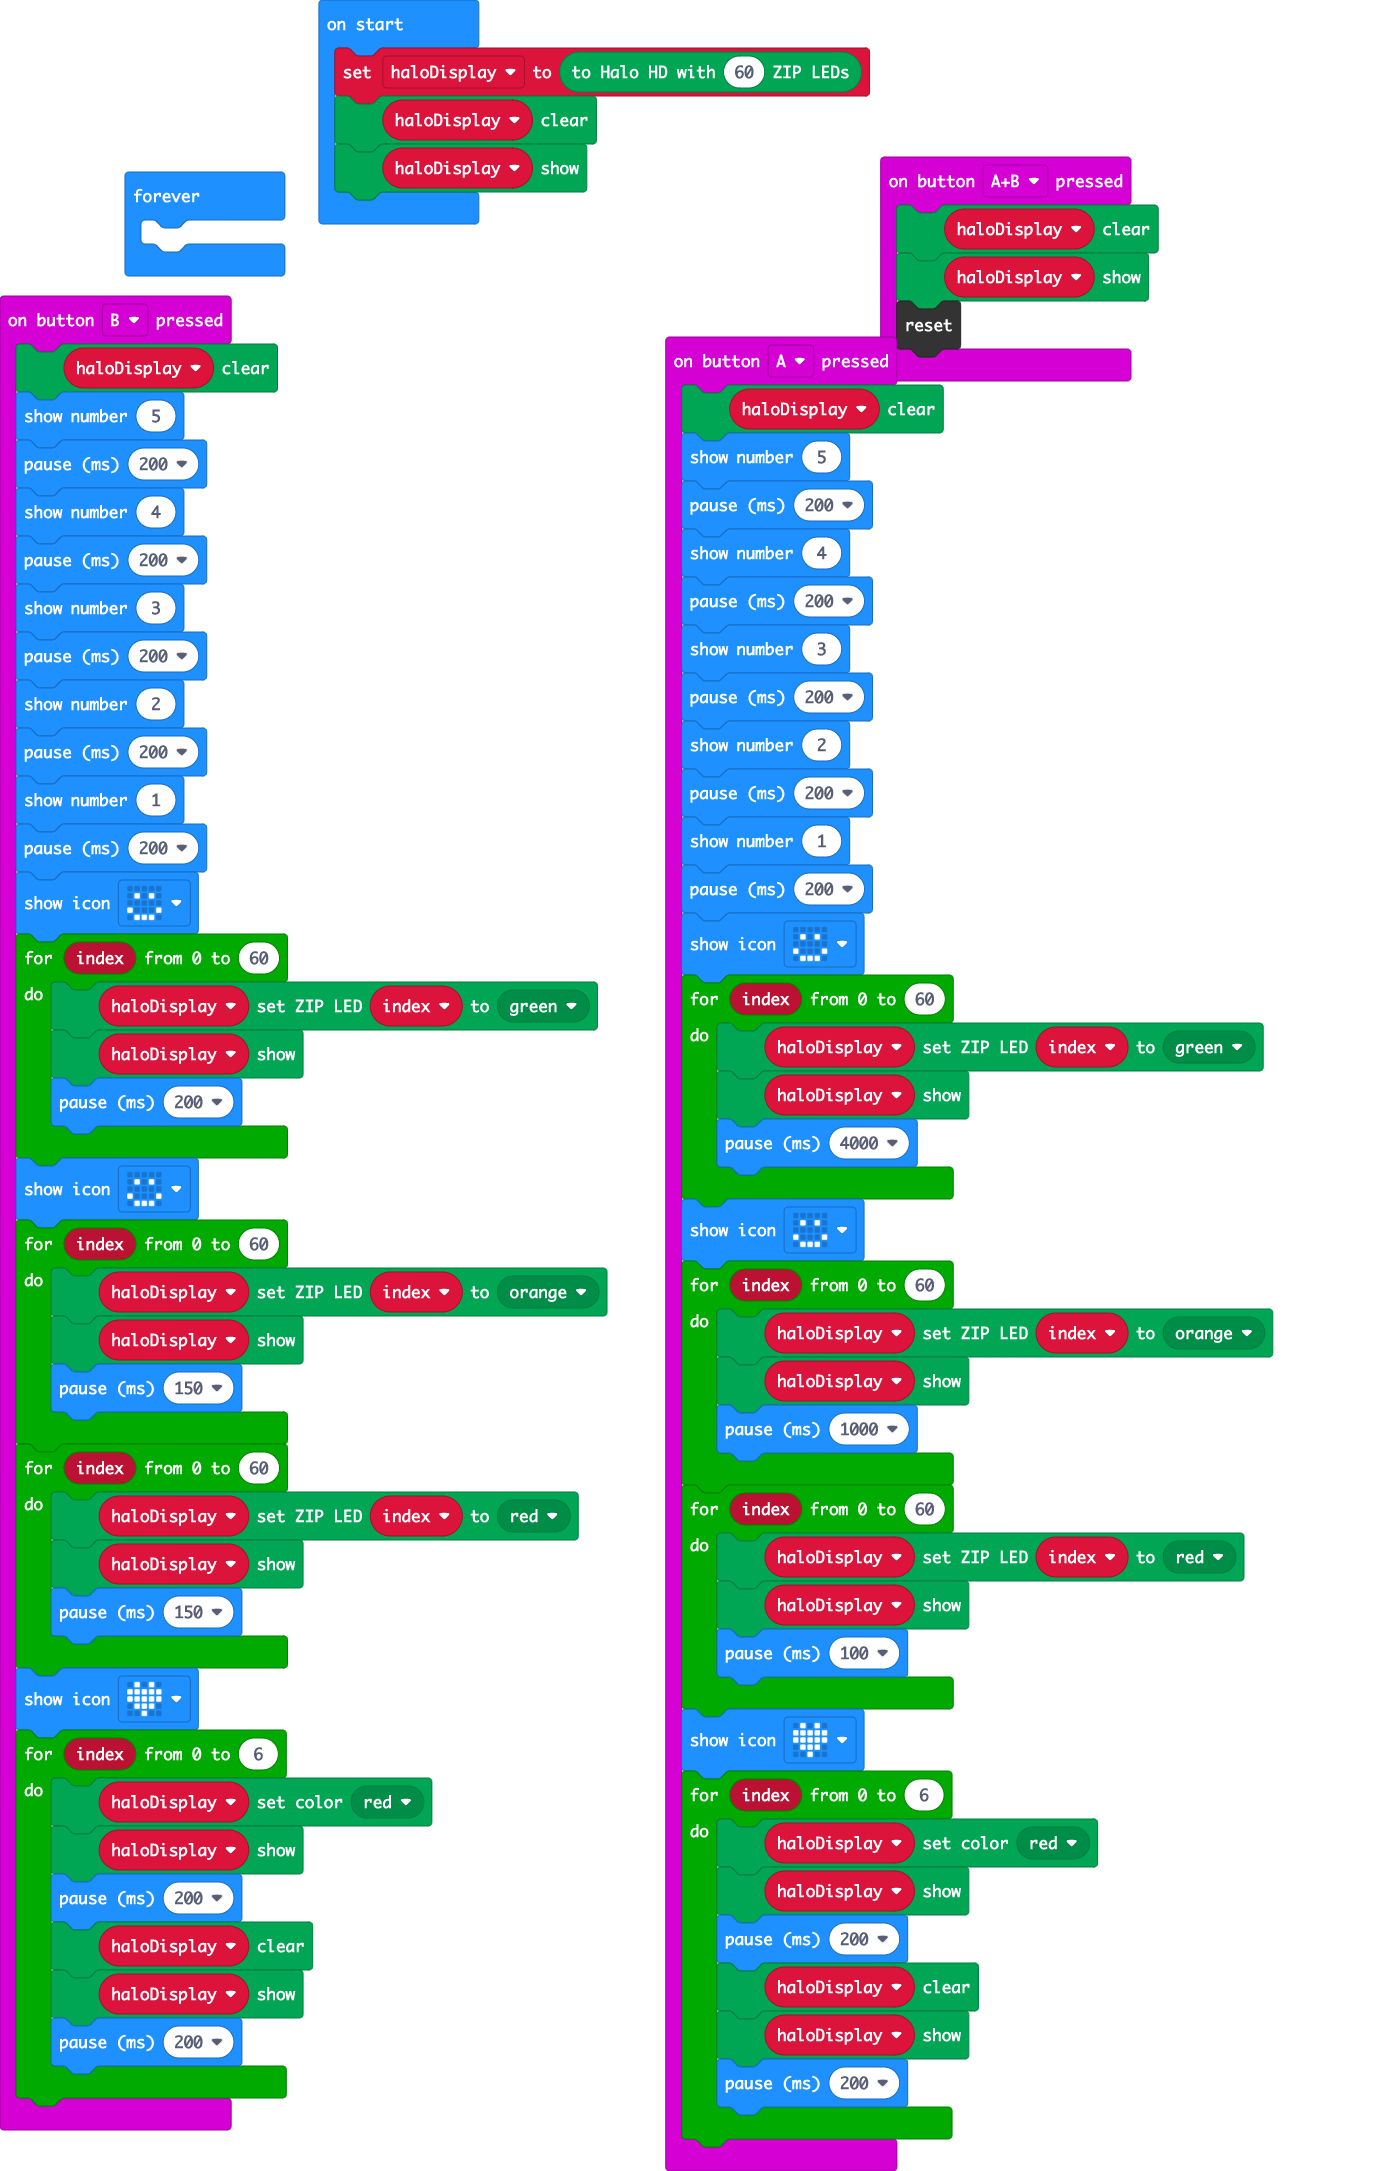
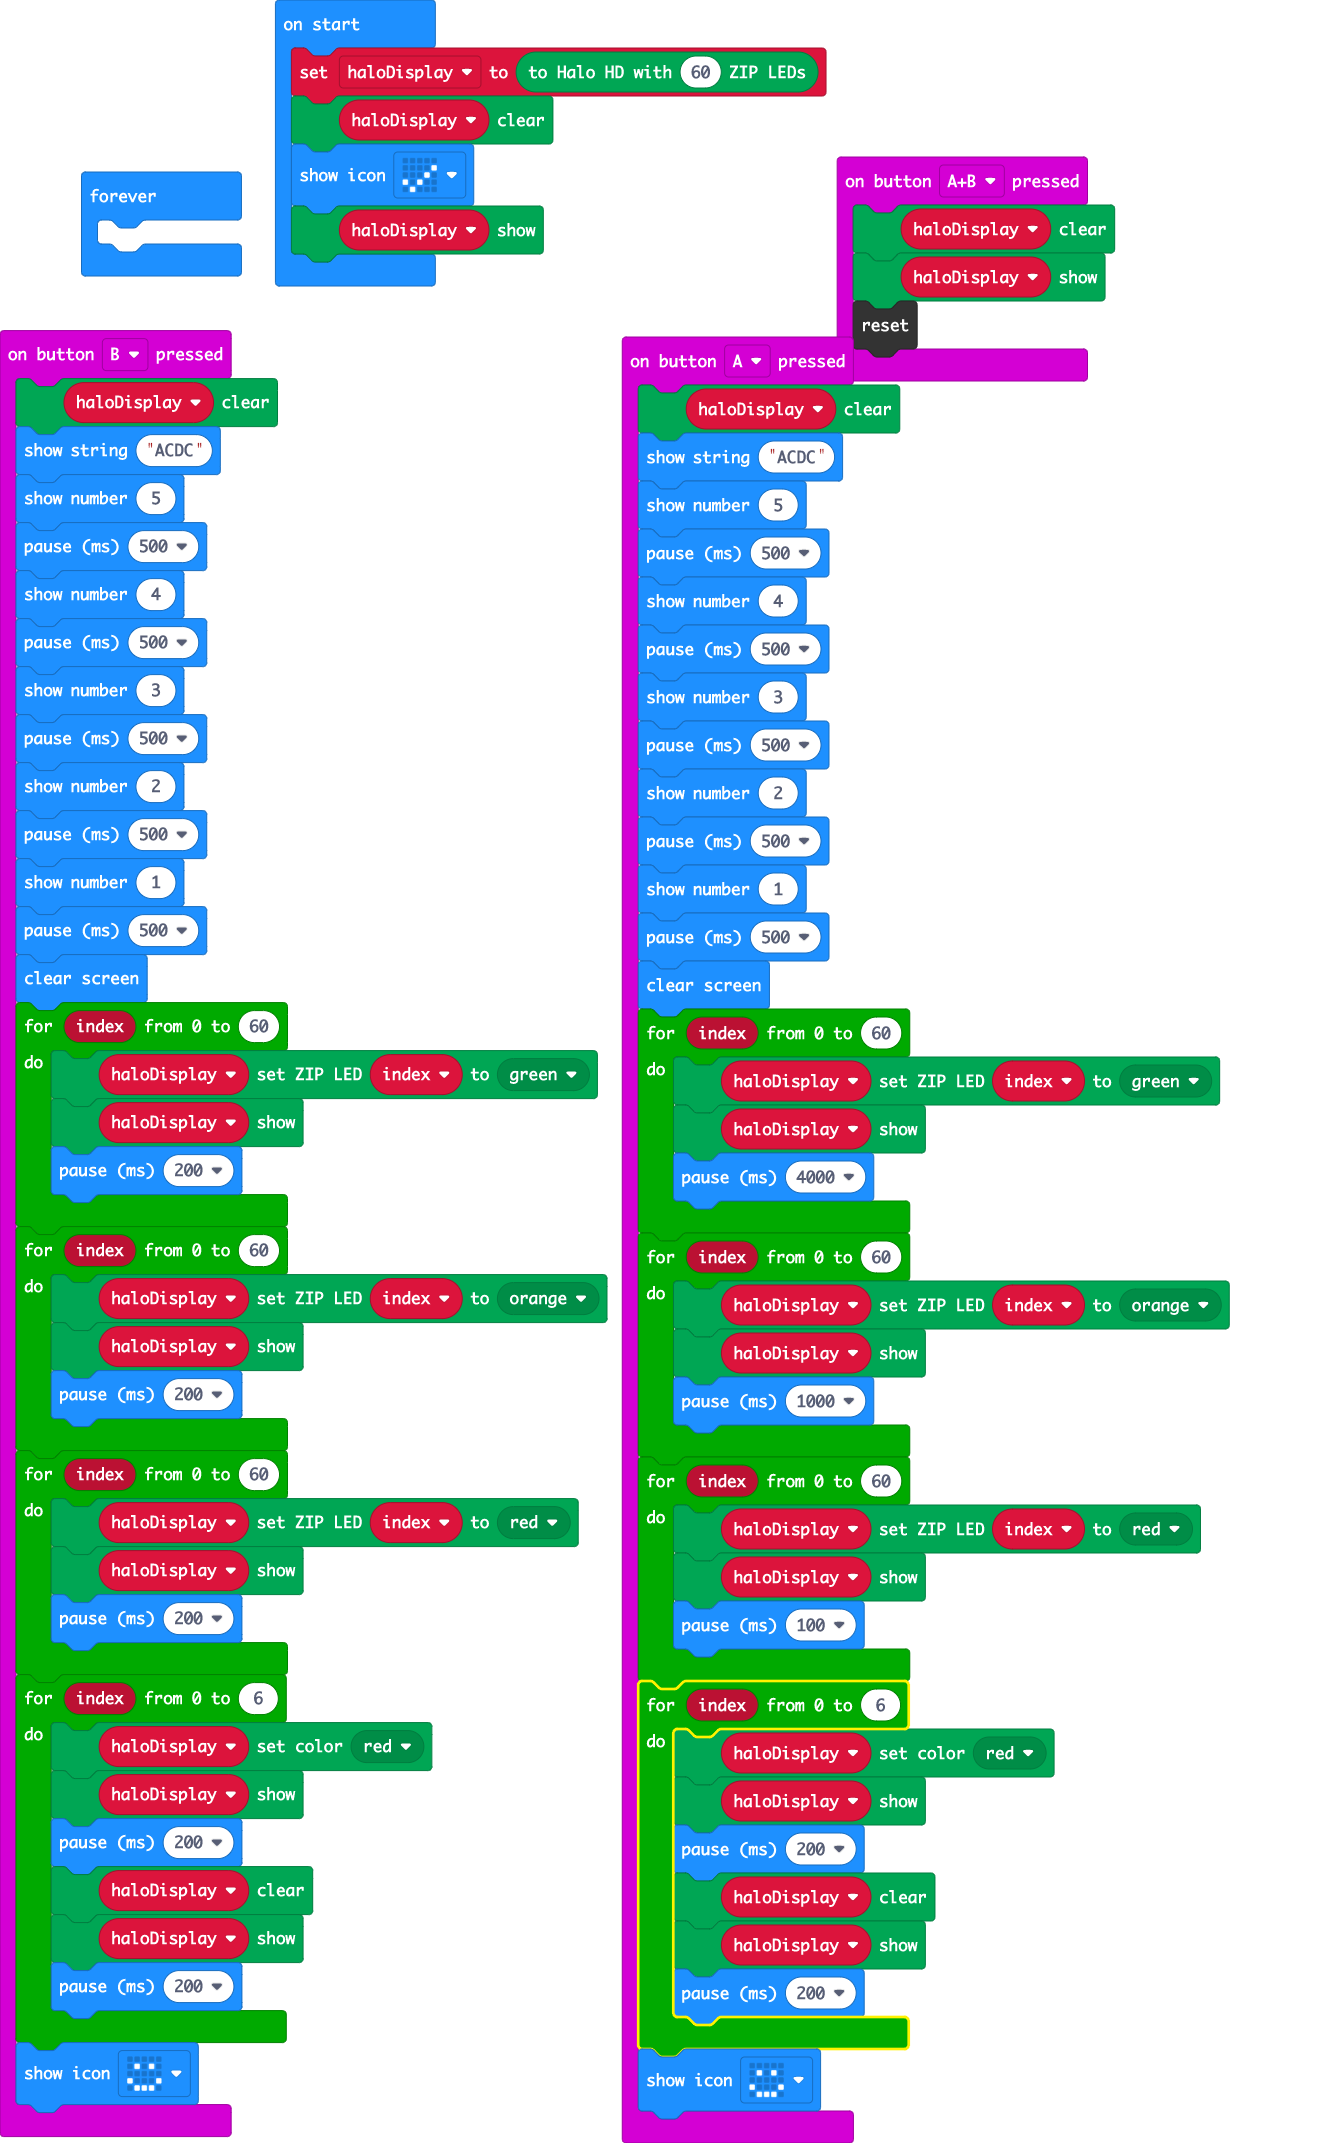
change behaviour for demo/real

diff --git a/main.ts b/main.ts
@@ -1,22 +1,22 @@
 input.onButtonPressed(Button.A, function () {
     haloDisplay.clear()
+    basic.showString("ACDC")
     basic.showNumber(5)
-    basic.pause(200)
+    basic.pause(500)
     basic.showNumber(4)
-    basic.pause(200)
+    basic.pause(500)
     basic.showNumber(3)
-    basic.pause(200)
+    basic.pause(500)
     basic.showNumber(2)
-    basic.pause(200)
+    basic.pause(500)
     basic.showNumber(1)
-    basic.pause(200)
-    basic.showIcon(IconNames.Happy)
+    basic.pause(500)
+    basic.clearScreen()
     for (let index = 0; index <= 60; index++) {
         haloDisplay.setZipLedColor(index, kitronik_halo_hd.colors(ZipLedColors.Green))
         haloDisplay.show()
         basic.pause(4000)
     }
-    basic.showIcon(IconNames.Happy)
     for (let index = 0; index <= 60; index++) {
         haloDisplay.setZipLedColor(index, kitronik_halo_hd.colors(ZipLedColors.Orange))
         haloDisplay.show()
@@ -27,7 +27,6 @@ input.onButtonPressed(Button.A, function () {
         haloDisplay.show()
         basic.pause(100)
     }
-    basic.showIcon(IconNames.Heart)
     for (let index = 0; index <= 6; index++) {
         haloDisplay.setColor(kitronik_halo_hd.colors(ZipLedColors.Red))
         haloDisplay.show()
@@ -36,6 +35,7 @@ input.onButtonPressed(Button.A, function () {
         haloDisplay.show()
         basic.pause(200)
     }
+    basic.showIcon(IconNames.Happy)
 })
 input.onButtonPressed(Button.AB, function () {
     haloDisplay.clear()
@@ -44,34 +44,33 @@ input.onButtonPressed(Button.AB, function () {
 })
 input.onButtonPressed(Button.B, function () {
     haloDisplay.clear()
+    basic.showString("ACDC")
     basic.showNumber(5)
-    basic.pause(200)
+    basic.pause(500)
     basic.showNumber(4)
-    basic.pause(200)
+    basic.pause(500)
     basic.showNumber(3)
-    basic.pause(200)
+    basic.pause(500)
     basic.showNumber(2)
-    basic.pause(200)
+    basic.pause(500)
     basic.showNumber(1)
-    basic.pause(200)
-    basic.showIcon(IconNames.Happy)
+    basic.pause(500)
+    basic.clearScreen()
     for (let index = 0; index <= 60; index++) {
         haloDisplay.setZipLedColor(index, kitronik_halo_hd.colors(ZipLedColors.Green))
         haloDisplay.show()
         basic.pause(200)
     }
-    basic.showIcon(IconNames.Happy)
     for (let index = 0; index <= 60; index++) {
         haloDisplay.setZipLedColor(index, kitronik_halo_hd.colors(ZipLedColors.Orange))
         haloDisplay.show()
-        basic.pause(150)
+        basic.pause(200)
     }
     for (let index = 0; index <= 60; index++) {
         haloDisplay.setZipLedColor(index, kitronik_halo_hd.colors(ZipLedColors.Red))
         haloDisplay.show()
-        basic.pause(150)
+        basic.pause(200)
     }
-    basic.showIcon(IconNames.Heart)
     for (let index = 0; index <= 6; index++) {
         haloDisplay.setColor(kitronik_halo_hd.colors(ZipLedColors.Red))
         haloDisplay.show()
@@ -80,10 +79,12 @@ input.onButtonPressed(Button.B, function () {
         haloDisplay.show()
         basic.pause(200)
     }
+    basic.showIcon(IconNames.Happy)
 })
 let haloDisplay: kitronik_halo_hd.ZIPHaloHd = null
 haloDisplay = kitronik_halo_hd.createZIPHaloDisplay(60)
 haloDisplay.clear()
+basic.showIcon(IconNames.Yes)
 haloDisplay.show()
 basic.forever(function () {
 	
